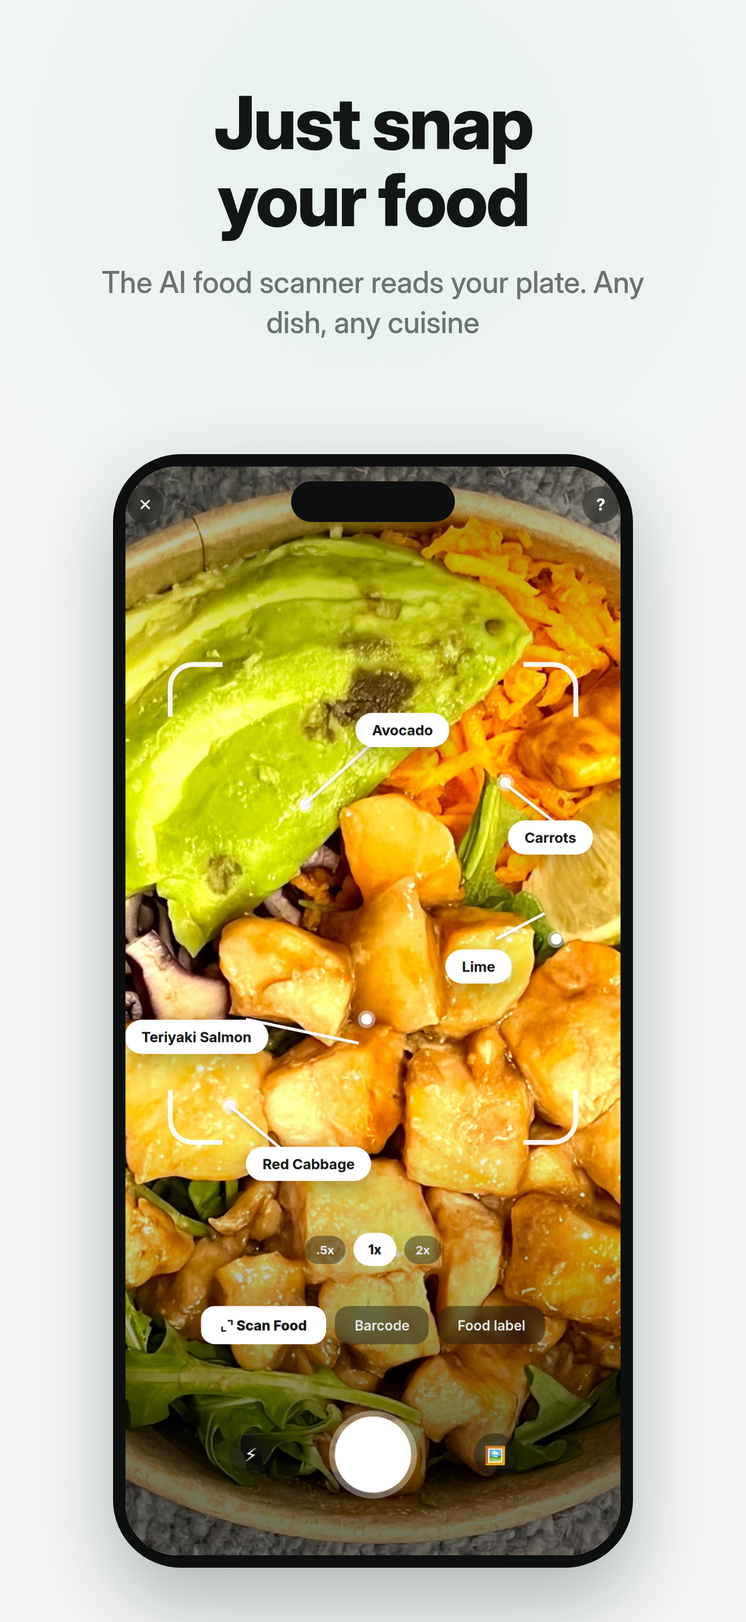
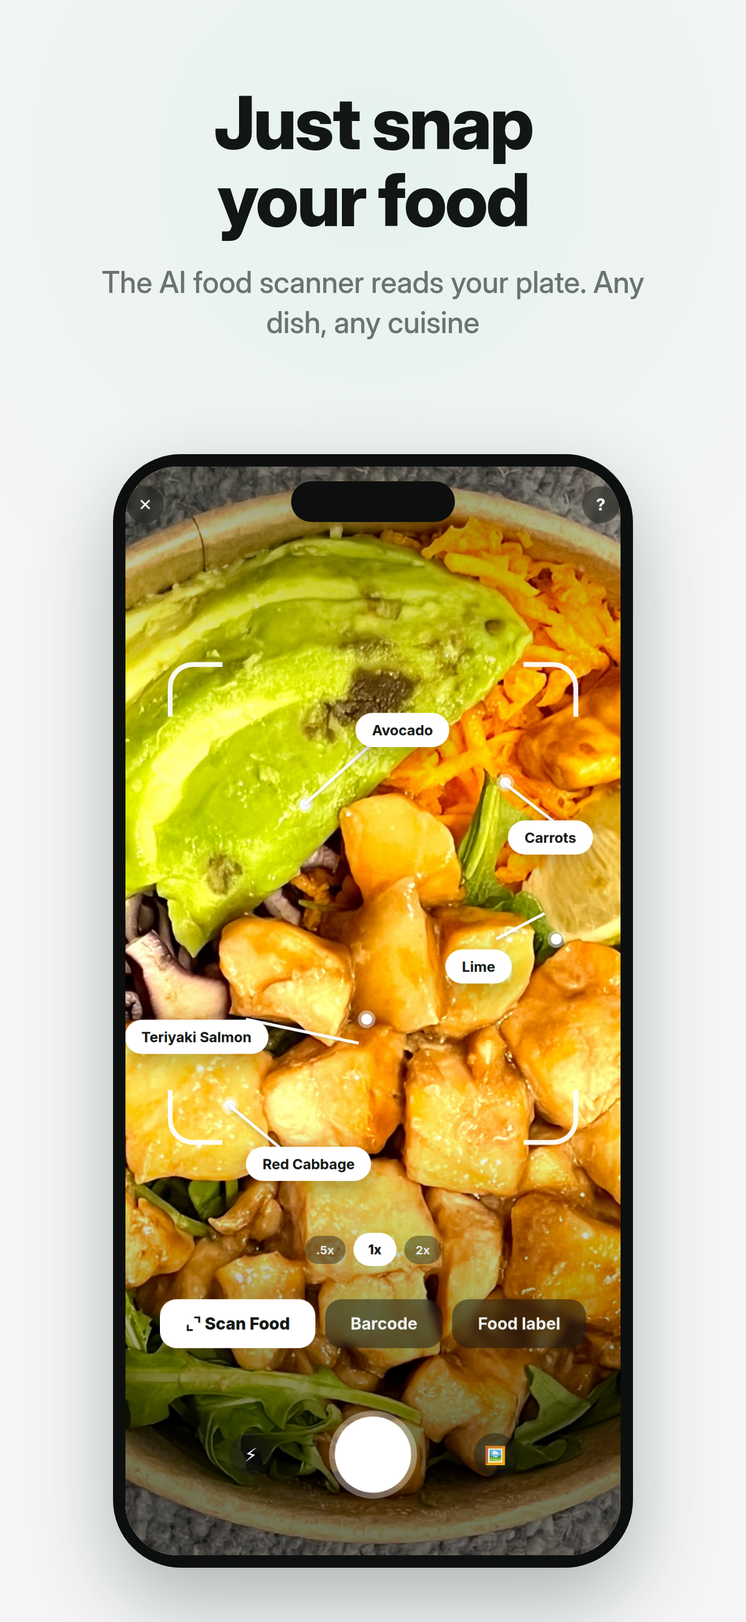
Screenshot set v3: pop-out overlays and per-panel feedback
1: macro rings pop-out card over the dashboard
2: bigger camera mode toggles
3: macro breakdown pop-out over the result card
4: fridge panel now uses the empty state with illustration
6: before/after transformation card added to Progress
7: plan reveal redesigned (confetti, macro rings, journey curve)
8: real CC0 protein bar photo with barcode sticker
9: water cups pop-out card
10: milestones screen now a full 4x3 badge grid
11: caption reworded to four quick actions / six ways total

Claude-Session: https://claude.ai/code/session_01U8zB96jntubMM3RPL6Mws6

Changed region(s): [[0.2174, 0.7758, 0.8076, 0.8379]]

diff --git a/appstore/screens.js b/appstore/screens.js
@@ -102,10 +102,20 @@ ${APPHEAD}
   </svg>
 </div>
 <div class="card">
-  <div class="h">Daily Average Calories</div>
-  <div class="row" style="margin-top:6px">
-    <div class="big" style="font-size:34px">3,180 <span style="font-size:16px;color:#858C8A;font-weight:600">cals</span></div>
-    <div style="color:#0D9E52;font-weight:800;font-size:14px">on plan ✓</div>
+  <div class="row"><div class="h">Your Transformation</div>
+  <div style="background:rgba(25,204,107,.12);color:#0D9E52;font-weight:800;font-size:12.5px;padding:6px 11px;border-radius:999px">▼ 15.4 lb so far</div></div>
+  <div style="display:flex;gap:10px;margin-top:12px">
+    <div style="flex:1;background:linear-gradient(180deg,#F3F6F4,#E9EFEA);border-radius:18px;padding:12px 8px;text-align:center">
+      <svg viewBox="0 0 100 150" style="height:120px"><circle cx="50" cy="22" r="15" fill="#B9C8BF"/><path d="M50 40 C16 40 20 70 20 95 L28 148 L72 148 L80 95 C80 70 84 40 50 40 Z" fill="#B9C8BF"/></svg>
+      <div style="font-size:16px;font-weight:800;margin-top:6px">212 lb</div>
+      <div class="sub2">Before · Mar 2</div>
+    </div>
+    <div style="display:flex;align-items:center;font-size:22px;color:#0D9E52;font-weight:800">→</div>
+    <div style="flex:1;background:linear-gradient(180deg,#EAF9F0,#DCF3E5);border-radius:18px;padding:12px 8px;text-align:center;border:2px solid #19CC6B">
+      <svg viewBox="0 0 100 150" style="height:120px"><circle cx="50" cy="22" r="15" fill="#B9C8BF"/><path d="M50 40 C28 40 32 70 32 95 L37 148 L63 148 L68 95 C68 70 72 40 50 40 Z" fill="#B9C8BF"/></svg>
+      <div style="font-size:16px;font-weight:800;margin-top:6px;color:#0D9E52">196.6 lb</div>
+      <div class="sub2">Today · Jul 5</div>
+    </div>
   </div>
 </div>
 </div>
@@ -113,50 +123,69 @@ ${TABBAR('progress')}`},
 
 // ============ 7. PLAN REVEAL ============
 plan: { bodyClass:'', html: `
-<div class="page" style="padding-top:40px">
-<div style="text-align:center;padding:0 10px">
-  <img src="file://${S}/assets/coach.png" style="width:110px;margin-bottom:14px">
-  <div style="font-size:30px;font-weight:800;letter-spacing:-.02em;line-height:1.15">Your daily<br>recommendation</div>
-  <div class="sub2" style="font-size:14.5px;margin-top:8px">You can edit this anytime</div>
+<div style="position:absolute;inset:0;background:linear-gradient(180deg,#DFF4E7, #F5F5F7 340px)"></div>
+${[[40,90,'#19CC6B'],[500,60,'#F7A32E'],[80,240,'#4D8FF2'],[470,210,'#F2596B'],[260,40,'#F7A32E'],[180,120,'#19CC6B'],[420,140,'#19CC6B'],[330,80,'#F2596B']].map(c=>
+  `<div style="position:absolute;left:${c[0]}px;top:${c[1]}px;width:10px;height:10px;border-radius:3px;background:${c[2]};opacity:.55;transform:rotate(${(c[0]*7)%80}deg)"></div>`).join('')}
+<div class="page" style="position:relative;padding-top:26px">
+<div style="text-align:center">
+  <img src="file://${S}/assets/coach.png" style="width:92px;margin-bottom:8px">
+  <div style="display:inline-block;background:rgba(25,204,107,.15);color:#0D9E52;font-size:12px;font-weight:800;letter-spacing:.08em;padding:6px 14px;border-radius:999px;margin-bottom:8px">YOUR PLAN IS READY 🎉</div>
+  <div style="font-size:27px;font-weight:800;letter-spacing:-.02em;line-height:1.12">Your daily<br>recommendation</div>
 </div>
-<div class="card" style="margin-top:22px;display:flex;align-items:center;gap:18px">
-  <svg width="104" height="104" viewBox="0 0 104 104" style="flex:none;transform:rotate(-90deg)">
-    <circle cx="52" cy="52" r="44" fill="none" stroke="#EEF1F0" stroke-width="11"/>
-    <circle cx="52" cy="52" r="44" fill="none" stroke="#19CC6B" stroke-width="11" stroke-linecap="round" stroke-dasharray="276" stroke-dashoffset="69"/>
-  </svg>
-  <div>
-    <div class="sub2" style="font-weight:600">Calories</div>
-    <div class="big" style="font-size:44px">3,405</div>
-    <div class="sub2">per day to build muscle</div>
+
+<div class="card" style="margin-top:16px;padding:18px">
+  <div style="display:flex;align-items:center;gap:16px">
+    <div style="position:relative;width:118px;height:118px;flex:none">
+      <div style="width:118px;height:118px;border-radius:50%;background:conic-gradient(#19CC6B 0 270deg,#E2EFE7 270deg 360deg)"></div>
+      <div style="position:absolute;inset:11px;border-radius:50%;background:#fff;display:flex;flex-direction:column;align-items:center;justify-content:center">
+        <div style="font-size:25px;font-weight:800;letter-spacing:-.02em">3,405</div>
+        <div style="font-size:10.5px;color:#858C8A;font-weight:700">KCAL / DAY</div>
+      </div>
+    </div>
+    <div style="flex:1">
+      <div style="font-size:15px;font-weight:800">Calories to build muscle</div>
+      <div class="sub2" style="margin-top:3px">Based on your goal, body and activity. Edit anytime.</div>
+      <div style="display:flex;gap:6px;margin-top:9px">
+        <div style="background:#F3F5F4;border-radius:999px;padding:5px 10px;font-size:11px;font-weight:700">28 yrs</div>
+        <div style="background:#F3F5F4;border-radius:999px;padding:5px 10px;font-size:11px;font-weight:700">6'1"</div>
+        <div style="background:#F3F5F4;border-radius:999px;padding:5px 10px;font-size:11px;font-weight:700">Very active</div>
+      </div>
+    </div>
+  </div>
+  <div style="display:flex;gap:9px;margin-top:16px">
+    ${[['Protein','136g','#F2596B','76'],['Carbs','272g','#F7A32E','93'],['Fat','71g','#4D8FF2','85']].map(m=>`
+    <div style="flex:1;background:#F8FAF9;border:1px solid #EDF0EE;border-radius:16px;padding:11px 6px;text-align:center">
+      <div style="position:relative;width:56px;height:56px;margin:0 auto">
+        <div style="width:56px;height:56px;border-radius:50%;background:conic-gradient(${m[2]} 0 ${Math.round(m[3]*3.6)}deg,#E9EDEB ${Math.round(m[3]*3.6)}deg 360deg)"></div>
+        <div style="position:absolute;inset:6px;border-radius:50%;background:#fff;display:flex;align-items:center;justify-content:center;font-size:13.5px;font-weight:800">${m[1]}</div>
+      </div>
+      <div style="font-size:11.5px;font-weight:800;color:${m[2]};margin-top:5px">${m[0]}</div>
+    </div>`).join('')}
   </div>
 </div>
-<div style="display:flex;gap:10px;margin-bottom:12px">
-  <div class="card" style="flex:1;margin:0;text-align:center;padding:14px 8px">
-    <div class="sub2" style="color:#F2596B;font-weight:800">Protein</div>
-    <div style="font-size:26px;font-weight:800;margin-top:2px">136<span style="font-size:15px;font-weight:700">g</span></div>
-  </div>
-  <div class="card" style="flex:1;margin:0;text-align:center;padding:14px 8px">
-    <div class="sub2" style="color:#F7A32E;font-weight:800">Carbs</div>
-    <div style="font-size:26px;font-weight:800;margin-top:2px">272<span style="font-size:15px;font-weight:700">g</span></div>
-  </div>
-  <div class="card" style="flex:1;margin:0;text-align:center;padding:14px 8px">
-    <div class="sub2" style="color:#4D8FF2;font-weight:800">Fat</div>
-    <div style="font-size:26px;font-weight:800;margin-top:2px">71<span style="font-size:15px;font-weight:700">g</span></div>
-  </div>
-</div>
-<div class="card" style="background:#F2FBF6;border-color:#D6F2E2;text-align:center;padding:20px">
-  <div style="font-size:19px;font-weight:800">You should reach <span style="color:#0D9E52">185 lb</span></div>
-  <div class="sub2" style="font-size:14px;margin-top:4px">by October 12 at a healthy pace</div>
-</div>
+
 <div class="card">
-  <div class="h" style="margin-bottom:10px">How we get you there</div>
-  <div style="font-size:14px;font-weight:600;line-height:2.1">
-    📸&nbsp; Snap your meals, AI does the math<br>
-    🎯&nbsp; Hit your protein target daily<br>
-    📈&nbsp; Weigh in weekly to tune the plan
-  </div>
+  <div class="row"><div class="h" style="font-size:15px">Your journey to 185 lb</div>
+  <div style="background:rgba(25,204,107,.12);color:#0D9E52;font-size:11.5px;font-weight:800;padding:5px 10px;border-radius:999px">14 weeks</div></div>
+  <svg viewBox="0 0 480 150" style="width:100%;margin-top:8px">
+    <path d="M20,30 C140,34 260,70 460,118" fill="none" stroke="#19CC6B" stroke-width="5" stroke-linecap="round"/>
+    <path d="M20,30 C140,34 260,70 460,118 L460,150 L20,150 Z" fill="rgba(25,204,107,.10)"/>
+    <circle cx="20" cy="30" r="9" fill="#fff" stroke="#B9C8BF" stroke-width="4"/>
+    <circle cx="460" cy="118" r="10" fill="#fff" stroke="#0D9E52" stroke-width="5"/>
+    <text x="20" y="66" font-size="15" font-weight="800" fill="#121714" font-family="Inter">212 lb</text>
+    <text x="20" y="84" font-size="11" fill="#858C8A" font-family="Inter">Today</text>
+    <text x="460" y="88" font-size="15" font-weight="800" fill="#0D9E52" text-anchor="end" font-family="Inter">185 lb</text>
+    <text x="460" y="106" font-size="11" fill="#858C8A" text-anchor="end" font-family="Inter">Oct 12</text>
+  </svg>
 </div>
-<div class="greenbtn" style="margin-top:6px">Let's get started</div>
+
+<div class="card" style="background:#F2FBF6;border-color:#D6F2E2;display:flex;gap:12px;align-items:center;padding:14px 16px">
+  <div style="font-size:24px">🎯</div>
+  <div style="font-size:14.5px;font-weight:700;line-height:1.4">You should reach <span style="color:#0D9E52">185 lb by October 12</span> at a healthy, sustainable pace</div>
+</div>
+
+<div class="greenbtn" style="box-shadow:0 12px 28px rgba(25,204,107,.4)">Let's get started</div>
+<div class="sub2" style="text-align:center;margin-top:8px">You can adjust everything later in Settings</div>
 </div>`},
 
 // ============ 8. BARCODE ============
@@ -267,33 +296,25 @@ ${TABBAR('home')}`},
 milestones: { bodyClass:'mint', html: `
 <div class="page">
 ${APPHEAD}
-<div class="screentitle">Milestones</div>
-<div class="grid2">
-  <div class="card" style="text-align:center;padding:13px">
-    <div class="row" style="justify-content:center;gap:8px">
-      <img src="file://${S}/assets/streak_flame.png" style="width:26px">
-      <div class="big" style="font-size:26px">4 <span style="font-size:13px;color:#858C8A;font-weight:600">day streak</span></div>
-    </div>
-  </div>
-  <div class="card" style="text-align:center;padding:13px">
-    <div class="big" style="font-size:26px">6<span style="font-size:15px;color:#858C8A">/24</span> <span style="font-size:13px;color:#858C8A;font-weight:600">badges</span></div>
-  </div>
+<div class="row" style="padding:6px 2px 12px">
+  <div class="screentitle" style="padding:0">Milestones</div>
+  <div style="background:#fff;border:1px solid #E9ECEE;border-radius:999px;padding:8px 14px;font-size:13.5px;font-weight:800">6<span style="color:#858C8A">/24</span> earned</div>
 </div>
 ${(() => {
   const cell = (img, title, detail, locked) => `
-    <div style="background:#fff;border:1px solid #E9ECEE;border-radius:20px;padding:14px 8px;text-align:center;${locked?'opacity:.55':''}">
-      <img src="file://${S}/assets/${img}.png" style="width:84px;height:84px;${locked?'filter:grayscale(1)':''}">
-      <div style="font-size:13px;font-weight:800;margin-top:8px">${title}</div>
-      <div style="font-size:11px;color:#858C8A;font-weight:600;margin-top:2px">${detail}</div>
+    <div style="background:#fff;border:1px solid #E9ECEE;border-radius:18px;padding:12px 6px 10px;text-align:center;${locked?'opacity:.5':''}">
+      <img src="file://${S}/assets/${img}.png" style="width:78px;height:78px;${locked?'filter:grayscale(1)':''}">
+      <div style="font-size:12px;font-weight:800;margin-top:6px">${title}</div>
+      <div style="font-size:10.5px;color:#858C8A;font-weight:600;margin-top:1px">${detail}</div>
     </div>`;
   const rows = [
     [ ['badge_s3','Rookie','3-day streak',0], ['badge_m1','First Bite','Log 1 meal',0], ['badge_photo','Say Cheese','First photo scan',0] ],
     [ ['badge_m5','Forking Around','Log 5 meals',0], ['badge_m10','Snack Attack','Log 10 meals',0], ['badge_w1','Step on the Scale','Log weight once',0] ],
-    [ ['badge_locked','On a Roll','7-day streak',1], ['badge_locked','Quarter Century','Log 25 meals',1], ['badge_locked','Trend Setter','Log weight 5×',1] ],
+    [ ['badge_locked','On a Roll','7-day streak',1], ['badge_locked','Getting Serious','10-day streak',1], ['badge_locked','Quarter Century','Log 25 meals',1] ],
+    [ ['badge_locked','Trend Setter','Log weight 5x',1], ['badge_locked','First Drop','Log water once',1], ['badge_locked','Committed','21-day streak',1] ],
   ];
-  return rows.map(r=>`<div style="display:flex;gap:10px;margin-bottom:10px">${r.map(c=>`<div style="flex:1">${cell(...c)}</div>`).join('')}</div>`).join('');
+  return rows.map(r=>`<div style="display:flex;gap:9px;margin-bottom:9px">${r.map(c=>`<div style="flex:1">${cell(...c)}</div>`).join('')}</div>`).join('');
 })()}
-<div class="sub2" style="text-align:center;margin-top:4px">18 more to unlock. Keep logging!</div>
 </div>
 ${TABBAR('progress')}`},
 };

diff --git a/appstore/screens2.js b/appstore/screens2.js
@@ -65,10 +65,10 @@ scan: `
 </div>
 
 <!-- mode toggles -->
-<div style="position:absolute;bottom:216px;left:0;right:0;display:flex;justify-content:center;gap:9px">
-  <div style="background:#fff;color:#121714;font-size:14px;font-weight:800;padding:11px 20px;border-radius:14px;display:flex;gap:7px;align-items:center">⌞⌝ Scan Food</div>
-  <div style="background:rgba(20,22,20,.45);color:#e8ece9;font-size:14px;font-weight:600;padding:11px 20px;border-radius:14px;backdrop-filter:blur(4px)">Barcode</div>
-  <div style="background:rgba(20,22,20,.45);color:#e8ece9;font-size:14px;font-weight:600;padding:11px 20px;border-radius:14px;backdrop-filter:blur(4px)">Food label</div>
+<div style="position:absolute;bottom:212px;left:0;right:0;display:flex;justify-content:center;gap:10px">
+  <div style="background:#fff;color:#121714;font-size:17px;font-weight:800;padding:15px 26px;border-radius:17px;display:flex;gap:8px;align-items:center">⌞⌝ Scan Food</div>
+  <div style="background:rgba(20,22,20,.5);color:#f2f5f3;font-size:17px;font-weight:700;padding:15px 26px;border-radius:17px;backdrop-filter:blur(4px)">Barcode</div>
+  <div style="background:rgba(20,22,20,.5);color:#f2f5f3;font-size:17px;font-weight:700;padding:15px 26px;border-radius:17px;backdrop-filter:blur(4px)">Food label</div>
 </div>
 
 <!-- shutter row -->
@@ -149,20 +149,12 @@ barcode2: `
   <div style="position:absolute;bottom:0;left:0;width:62px;height:62px;border-bottom:6px solid #fff;border-left:6px solid #fff;border-bottom-left-radius:28px;filter:drop-shadow(0 3px 8px rgba(0,0,0,.18))"></div>
   <div style="position:absolute;bottom:0;right:0;width:62px;height:62px;border-bottom:6px solid #fff;border-right:6px solid #fff;border-bottom-right-radius:28px;filter:drop-shadow(0 3px 8px rgba(0,0,0,.18))"></div>
 
-  <!-- protein bar -->
-  <div style="position:absolute;left:26px;right:26px;top:76px;height:320px;transform:rotate(-4deg)">
-    <div style="position:absolute;inset:0;border-radius:26px;background:
-      linear-gradient(160deg,#FFC93C 0%,#FFB020 45%,#F29A00 100%);
-      box-shadow:0 26px 60px rgba(150,100,0,.35), inset 0 3px 10px rgba(255,255,255,.55), inset 0 -6px 16px rgba(130,70,0,.25)"></div>
-    <div style="position:absolute;left:0;top:14px;bottom:14px;width:26px;background:
-      repeating-linear-gradient(180deg,#E89400 0 14px,#D07F00 14px 28px);border-radius:14px 0 0 14px;filter:brightness(.96)"></div>
-    <div style="position:absolute;right:0;top:14px;bottom:14px;width:26px;background:
-      repeating-linear-gradient(180deg,#E89400 0 14px,#D07F00 14px 28px);border-radius:0 14px 14px 0;filter:brightness(.96)"></div>
-    <div style="position:absolute;left:50%;top:24px;transform:translateX(-50%);font-size:15px;font-weight:900;letter-spacing:.14em;color:#7c4d00">PROTEIN BAR</div>
-    <div style="position:absolute;left:50%;top:48px;transform:translateX(-50%);font-size:11px;font-weight:800;letter-spacing:.2em;color:#9c6a10">VANILLA · 20G PROTEIN</div>
-    <div style="position:absolute;left:50%;top:84px;transform:translateX(-50%);width:290px;background:#fff;border-radius:14px;padding:16px 18px 10px;box-shadow:0 8px 22px rgba(120,70,0,.25)">
-      <svg viewBox="0 0 300 74" style="width:100%">
-        ${Array.from({length:46},(_,i)=>{const w=[2,4,2,6,3,2,5,2,3,4][i%10];const x=5+i*6.3;return `<rect x="${x}" y="0" width="${w*0.85}" height="56" fill="#17140e"/>`}).join('')}
+  <!-- real protein bar photo -->
+  <div style="position:absolute;left:10px;right:10px;top:60px;text-align:center;transform:rotate(-3deg)">
+    <img src="file://${S}/assets/bar_real.png" style="width:96%;filter:drop-shadow(0 26px 34px rgba(90,60,20,.35))">
+    <div style="display:inline-block;background:#fff;border-radius:14px;padding:14px 18px 8px;box-shadow:0 10px 26px rgba(90,60,20,.28);margin-top:-30px">
+      <svg viewBox="0 0 300 74" style="width:250px">
+        <rect x="5.0" y="0" width="1.7" height="56" fill="#17140e"/><rect x="11.3" y="0" width="3.4" height="56" fill="#17140e"/><rect x="17.6" y="0" width="1.7" height="56" fill="#17140e"/><rect x="23.9" y="0" width="5.1" height="56" fill="#17140e"/><rect x="30.2" y="0" width="2.55" height="56" fill="#17140e"/><rect x="36.5" y="0" width="1.7" height="56" fill="#17140e"/><rect x="42.8" y="0" width="4.25" height="56" fill="#17140e"/><rect x="49.1" y="0" width="1.7" height="56" fill="#17140e"/><rect x="55.4" y="0" width="2.55" height="56" fill="#17140e"/><rect x="61.699999999999996" y="0" width="3.4" height="56" fill="#17140e"/><rect x="68.0" y="0" width="1.7" height="56" fill="#17140e"/><rect x="74.3" y="0" width="3.4" height="56" fill="#17140e"/><rect x="80.6" y="0" width="1.7" height="56" fill="#17140e"/><rect x="86.89999999999999" y="0" width="5.1" height="56" fill="#17140e"/><rect x="93.2" y="0" width="2.55" height="56" fill="#17140e"/><rect x="99.5" y="0" width="1.7" height="56" fill="#17140e"/><rect x="105.8" y="0" width="4.25" height="56" fill="#17140e"/><rect x="112.1" y="0" width="1.7" height="56" fill="#17140e"/><rect x="118.39999999999999" y="0" width="2.55" height="56" fill="#17140e"/><rect x="124.7" y="0" width="3.4" height="56" fill="#17140e"/><rect x="131.0" y="0" width="1.7" height="56" fill="#17140e"/><rect x="137.29999999999998" y="0" width="3.4" height="56" fill="#17140e"/><rect x="143.6" y="0" width="1.7" height="56" fill="#17140e"/><rect x="149.9" y="0" width="5.1" height="56" fill="#17140e"/><rect x="156.2" y="0" width="2.55" height="56" fill="#17140e"/><rect x="162.5" y="0" width="1.7" height="56" fill="#17140e"/><rect x="168.79999999999998" y="0" width="4.25" height="56" fill="#17140e"/><rect x="175.1" y="0" width="1.7" height="56" fill="#17140e"/><rect x="181.4" y="0" width="2.55" height="56" fill="#17140e"/><rect x="187.7" y="0" width="3.4" height="56" fill="#17140e"/><rect x="194.0" y="0" width="1.7" height="56" fill="#17140e"/><rect x="200.29999999999998" y="0" width="3.4" height="56" fill="#17140e"/><rect x="206.6" y="0" width="1.7" height="56" fill="#17140e"/><rect x="212.9" y="0" width="5.1" height="56" fill="#17140e"/><rect x="219.2" y="0" width="2.55" height="56" fill="#17140e"/><rect x="225.5" y="0" width="1.7" height="56" fill="#17140e"/><rect x="231.79999999999998" y="0" width="4.25" height="56" fill="#17140e"/><rect x="238.1" y="0" width="1.7" height="56" fill="#17140e"/><rect x="244.4" y="0" width="2.55" height="56" fill="#17140e"/><rect x="250.7" y="0" width="3.4" height="56" fill="#17140e"/><rect x="257.0" y="0" width="1.7" height="56" fill="#17140e"/><rect x="263.3" y="0" width="3.4" height="56" fill="#17140e"/><rect x="269.59999999999997" y="0" width="1.7" height="56" fill="#17140e"/><rect x="275.9" y="0" width="5.1" height="56" fill="#17140e"/><rect x="282.2" y="0" width="2.55" height="56" fill="#17140e"/><rect x="288.5" y="0" width="1.7" height="56" fill="#17140e"/>
         <text x="150" y="72" font-size="14" fill="#17140e" text-anchor="middle" font-family="Inter" font-weight="700">0 41220 88472 5</text>
       </svg>
     </div>
@@ -178,7 +170,7 @@ barcode2: `
 <div style="position:absolute;left:20px;right:20px;top:640px;background:#fff;border-radius:26px;padding:20px;box-shadow:0 30px 70px rgba(60,55,40,.28)">
   <div class="row">
     <div>
-      <div style="font-size:19px;font-weight:800">Vanilla Protein Bar</div>
+      <div style="font-size:19px;font-weight:800">Chocolate Chip Protein Bar</div>
       <div style="font-size:12.5px;color:#858C8A;font-weight:600;margin-top:2px">1 bar (52 g) · verified nutrition</div>
     </div>
     <div style="text-align:right">

diff --git a/appstore/generate.js b/appstore/generate.js
@@ -12,6 +12,19 @@ const PANELS = [
     n: 1, frame: 'f_8.4.png', pad: '#CEE9DC',
     headline: 'Track calories<br>with a photo',
     pill: 'AI CALORIE TRACKER & MACRO COUNTER',
+    overlay: `<div class="pop" style="top:880px;width:1000px;transform:translateX(-50%) rotate(-2deg)"><div class="cap">MACROS TODAY</div><div class="ringrow"><div class="ringcell">
+        <div class="cring"><div style="width:190px;height:190px;border-radius:50%;background:conic-gradient(#F2596B 0 276deg,#F8DEE1 276deg 360deg)"></div>
+        <div class="in"><span style="font-size:44px">104g</span><span style="font-size:26px;color:#858C8A;font-weight:700">/136</span></div></div>
+        <div class="lbl" style="color:#F2596B">Protein</div>
+      </div><div class="ringcell">
+        <div class="cring"><div style="width:190px;height:190px;border-radius:50%;background:conic-gradient(#F7A32E 0 336deg,#FBEBD2 336deg 360deg)"></div>
+        <div class="in"><span style="font-size:44px">254g</span><span style="font-size:26px;color:#858C8A;font-weight:700">/272</span></div></div>
+        <div class="lbl" style="color:#F7A32E">Carbs</div>
+      </div><div class="ringcell">
+        <div class="cring"><div style="width:190px;height:190px;border-radius:50%;background:conic-gradient(#4D8FF2 0 305deg,#DCE8FB 305deg 360deg)"></div>
+        <div class="in"><span style="font-size:44px">60g</span><span style="font-size:26px;color:#858C8A;font-weight:700">/71</span></div></div>
+        <div class="lbl" style="color:#4D8FF2">Fat</div>
+      </div></div></div>`,
   },
   {
     n: 2, frame: 'gen_scan.png', noPad: true,
@@ -22,6 +35,7 @@ const PANELS = [
     n: 3, frame: 'gen_result.png', noPad: true,
     headline: 'Calories & macros<br>in seconds',
     sub: 'Protein, carbs & fat. Fix anything with a tap',
+    overlay: `<div class="pop" style="top:1030px;width:1010px;transform:translateX(-50%) rotate(2deg);padding:38px 42px"><div class="cap">FULL MACRO BREAKDOWN</div><div style="display:flex;gap:20px"><div style="flex:1;text-align:center;background:#FDF1F2;color:#F2596B;border-radius:26px;padding:34px 0;font-size:38px;font-weight:800">🍗 38g<br><span style="font-size:24px;letter-spacing:.06em">PROTEIN</span></div><div style="flex:1;text-align:center;background:#FEF6EA;color:#D98A18;border-radius:26px;padding:34px 0;font-size:38px;font-weight:800">🌾 32g<br><span style="font-size:24px;letter-spacing:.06em">CARBS</span></div><div style="flex:1;text-align:center;background:#EEF4FE;color:#4D8FF2;border-radius:26px;padding:34px 0;font-size:38px;font-weight:800">💧 26g<br><span style="font-size:24px;letter-spacing:.06em">FAT</span></div></div></div>`,
   },
   {
     n: 4, frame: 'gen_fridge.png', pad: '#CEE9DC',
@@ -53,6 +67,7 @@ const PANELS = [
     n: 9, frame: 'gen_health.png', pad: '#CEE9DC',
     headline: 'More than<br>calories',
     sub: 'Water, steps, workouts & a daily health score',
+    overlay: `<div class="pop" style="top:1060px;width:1010px;transform:translateX(-50%) rotate(-2deg);padding:40px 44px"><div class="cap" style="color:#3D9BD6">WATER · 1,500 / 2,000 ML</div><div style="display:flex;gap:16px"><div style="flex:1;aspect-ratio:.84;border-radius:22px;display:flex;align-items:center;justify-content:center;font-size:52px;background:linear-gradient(180deg,#DFF1FB,#BFE3F7);border:3px solid #A8D8F2">💧</div><div style="flex:1;aspect-ratio:.84;border-radius:22px;display:flex;align-items:center;justify-content:center;font-size:52px;background:linear-gradient(180deg,#DFF1FB,#BFE3F7);border:3px solid #A8D8F2">💧</div><div style="flex:1;aspect-ratio:.84;border-radius:22px;display:flex;align-items:center;justify-content:center;font-size:52px;background:linear-gradient(180deg,#DFF1FB,#BFE3F7);border:3px solid #A8D8F2">💧</div><div style="flex:1;aspect-ratio:.84;border-radius:22px;display:flex;align-items:center;justify-content:center;font-size:52px;background:linear-gradient(180deg,#DFF1FB,#BFE3F7);border:3px solid #A8D8F2">💧</div><div style="flex:1;aspect-ratio:.84;border-radius:22px;display:flex;align-items:center;justify-content:center;font-size:52px;background:linear-gradient(180deg,#DFF1FB,#BFE3F7);border:3px solid #A8D8F2">💧</div><div style="flex:1;aspect-ratio:.84;border-radius:22px;display:flex;align-items:center;justify-content:center;font-size:52px;background:linear-gradient(180deg,#DFF1FB,#BFE3F7);border:3px solid #A8D8F2">💧</div><div style="flex:1;aspect-ratio:.84;border-radius:22px;display:flex;align-items:center;justify-content:center;font-size:52px;background:#F5F7F8;border:3px dashed #D5DBDE;opacity:.55">💧</div><div style="flex:1;aspect-ratio:.84;border-radius:22px;display:flex;align-items:center;justify-content:center;font-size:52px;background:#F5F7F8;border:3px dashed #D5DBDE;opacity:.55">💧</div></div><div style="text-align:center;font-size:28px;font-weight:700;color:#858C8A;margin-top:24px">6 of 8 cups. Tap a cup to log</div></div>`,
   },
   {
     n: 10, frame: 'gen_milestones.png', pad: '#CEE9DC',
@@ -61,8 +76,8 @@ const PANELS = [
   },
   {
     n: 11, frame: 'f_0.5.png', pad: '#7E8E86',
-    headline: 'Six ways to log<br>any food',
-    sub: 'Photo scan · barcode · describe it · saved meals · manual · exercise',
+    headline: 'Add food<br>your way',
+    sub: 'Scan a meal, search food, saved & recent, or log exercise. Six ways to log in total',
   },
 ];
 
@@ -94,6 +109,14 @@ function html(p) {
   .coach-callout img.av{width:130px;height:130px;flex:none;}
   .coach-callout .t{font-size:44px;line-height:1.35;color:#121714;font-weight:600;}
   .coach-callout .t b{display:block;color:#0D9E52;font-size:38px;font-weight:800;letter-spacing:.04em;margin-bottom:10px;}
+  .pop{position:absolute;left:50%;background:#fff;border-radius:52px;box-shadow:0 50px 120px rgba(0,0,0,.30);
+       border:3px solid #E5E8EA;padding:44px 50px;}
+  .pop .cap{font-size:34px;font-weight:800;letter-spacing:.08em;color:#0D9E52;margin-bottom:26px;text-align:center;}
+  .ringrow{display:flex;gap:44px;justify-content:center;}
+  .ringcell{text-align:center;}
+  .ringcell .lbl{font-size:30px;font-weight:800;margin-top:14px;}
+  .cring{position:relative;width:190px;height:190px;margin:0 auto;}
+  .cring .in{position:absolute;inset:20px;border-radius:50%;background:#fff;display:flex;flex-direction:column;align-items:center;justify-content:center;font-weight:800;}
   </style></head><body style="--pad:${p.pad || '#F5F5F7'}">
   <div class="glow"></div>
   <div class="head">
@@ -112,6 +135,7 @@ function html(p) {
       <img class="av" src="file:///home/user/Cal-Cal/img/coach.png">
       <div class="t"><b>COACH</b>You’re 104g protein short. Add chicken, Greek yogurt, or a shake.</div>
     </div>` : ''}
+    ${p.overlay || ''}
   </div>
   </body></html>`;
 }

diff --git a/appstore/screens3.js b/appstore/screens3.js
@@ -27,7 +27,7 @@ const BODY = `
     </div>
     <div style="display:flex;align-items:center;justify-content:space-between;margin-top:10px">
       <div style="display:inline-flex;align-items:center;gap:8px;background:rgba(25,204,107,.14);color:#0D9E52;border-radius:999px;padding:9px 16px;font-size:14.5px;font-weight:800">📷 Snap your fridge</div>
-      <div style="font-size:13.5px;color:#6a7370;font-weight:600">26 items</div>
+      
     </div>
   </div>
 
@@ -44,12 +44,10 @@ const BODY = `
     <div style="background:#19CC6B;color:#fff;border-radius:16px;height:50px;display:flex;align-items:center;justify-content:center;font-size:15.5px;font-weight:800;margin-top:12px;box-shadow:0 10px 24px rgba(25,204,107,.35)">✨ Suggest dinner</div>
   </div>
 
-  <div style="background:#fff;border:1px solid #E9ECEE;border-radius:22px;padding:16px;margin-top:12px">
-    <div style="font-size:12px;color:#858C8A;font-weight:500">Tap an item to edit its nutrition · ✕ removes it</div>
-    ${cat('🍗','Protein',['Eggplant salad','Eggs','meat'])}
-    ${cat('🥦','Fruit & Veg',['beans','Korean salad','lemon','lettuce'])}
-    ${cat('🌾','Carbs & Grains',['pasta sauce','Potato','rice'])}
-    ${cat('🥛','Dairy',['Philadelphia cheese','Yogurt'])}
+  <div style="background:#fff;border:1px solid #E9ECEE;border-radius:22px;padding:26px 16px;margin-top:12px;text-align:center">
+    <img src="file://${S}/assets/empty_fridge.png" style="width:190px;margin:0 auto">
+    <div style="font-size:19px;font-weight:800;margin-top:10px">Your fridge is empty</div>
+    <div style="font-size:13px;color:#858C8A;font-weight:500;margin-top:5px;line-height:1.5">Type items above or snap a photo,<br>everything you add is saved here.</div>
   </div>
 </div>
 
